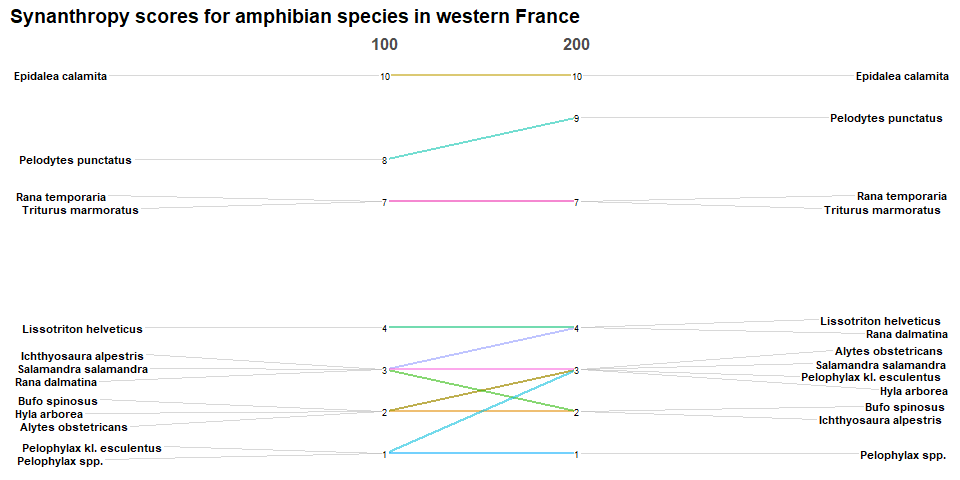
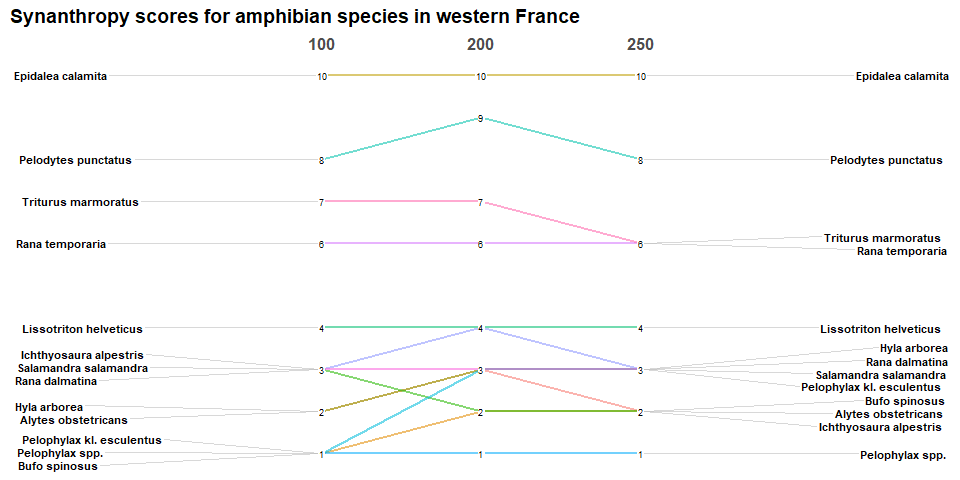
with 500 run

diff --git a/README.md b/README.md
@@ -67,6 +67,10 @@ Packages <- c(Packages_fund,Packages_rel)
 lapply(Packages, library, character.only = TRUE) # to load
 ```
 
+## The Species Synanthropy Index function
+
+### An example with amphibian populations in western France
+
 ### Data
 
 Two types of data are required to run the Species Synanthropy Index
@@ -114,10 +118,6 @@ ggplot() +
 
 ![](README_files/figure-gfm/unnamed-chunk-5-1.png)<!-- -->
 
-## The Species Synanthropy Index function
-
-### An example with amphibian populations in western France
-
 ### Usage
 
 The function was designed to calculate synanthropy scores automatically
@@ -125,6 +125,12 @@ from a data set (for a taxon, a territory and a period). Several
 resolutions can be evaluated simultaneously.
 
 ### Arguments
+
+- `- r`: the raster to be analysed.
+
+- `- x`: the species occurrences dataset ; Data must be structured as
+  network format (one information by row : species, date, spatial
+  coordinates), see above.
 
 - `- resolution`: this argument allows to test several resolutions. To
   do this, specify for each resolution you want to test (the value is
@@ -141,7 +147,7 @@ resolutions can be evaluated simultaneously.
 ### Example and results
 
 ``` r
-ssi_results <- ssi(r = ras_raw, x = sp_by_occ_raw, resolution = c(100, 200), sim = 50, threshold = 30)
+ssi_results <- ssi(r = ras_raw, x = sp_by_occ_raw, resolution = c(100, 200, 250), sim = 500, threshold = 30)
 
 head(ssi_results)
 ```
@@ -158,12 +164,12 @@ head(ssi_results[[1]])
 ```
 
     ##                  Species        mean nRun Index Resolution
-    ## 1    Alytes obstetricans  0.01746624   50     2        100
-    ## 2          Bufo spinosus  0.05210600   50     2        100
-    ## 3      Epidalea calamita -0.48877355   50    10        100
-    ## 4           Hyla arborea  0.01479628   50     2        100
-    ## 5 Ichthyosaura alpestris -0.04402496   50     3        100
-    ## 6 Lissotriton helveticus -0.09571499   50     4        100
+    ## 1    Alytes obstetricans  0.01505309  500     2        100
+    ## 2          Bufo spinosus  0.05567386  500     1        100
+    ## 3      Epidalea calamita -0.50631616  500    10        100
+    ## 4           Hyla arborea  0.02091115  500     2        100
+    ## 5 Ichthyosaura alpestris -0.03143930  500     3        100
+    ## 6 Lissotriton helveticus -0.09821513  500     4        100
 
 - `[[2]]` the second data.frame compile all the raw results, i.e all the
   effect size assessed per run, with corresponding information provided
@@ -176,12 +182,12 @@ head(ssi_results[[2]])
 ```
 
     ##                  Species   .y. group1 group2     effsize   n1   n2  magnitude
-    ## 1    Alytes obstetricans value   Null    Obs  0.04686383  220  220 negligible
-    ## 2          Bufo spinosus value   Null    Obs  0.04723232 2012 2011 negligible
-    ## 3      Epidalea calamita value   Null    Obs -0.58410587   95   95   moderate
-    ## 4           Hyla arborea value   Null    Obs  0.03807707  689  689 negligible
-    ## 5 Ichthyosaura alpestris value   Null    Obs -0.05192229  237  237 negligible
-    ## 6 Lissotriton helveticus value   Null    Obs -0.10389539 1197 1197 negligible
+    ## 1    Alytes obstetricans value   Null    Obs  0.06662700  220  220 negligible
+    ## 2          Bufo spinosus value   Null    Obs  0.06571214 2012 2011 negligible
+    ## 3      Epidalea calamita value   Null    Obs -0.47073556   95   95      small
+    ## 4           Hyla arborea value   Null    Obs  0.02799396  689  689 negligible
+    ## 5 Ichthyosaura alpestris value   Null    Obs  0.08570237  237  237 negligible
+    ## 6 Lissotriton helveticus value   Null    Obs -0.05569967 1197 1197 negligible
     ##   Run Resolution
     ## 1   1        100
     ## 2   1        100
@@ -198,12 +204,12 @@ head(ssi_results[[3]])
 ```
 
     ##    Cell             Species        x       y variable Resolution
-    ## 1  1270 Triturus marmoratus 222047.6 6868984     Null        100
-    ## 2 10959 Triturus marmoratus 272047.6 6740984     Null        100
-    ## 3  6435 Triturus marmoratus 284047.6 6800984     Null        100
-    ## 4  2914 Triturus marmoratus 188047.6 6846984     Null        100
-    ## 5  3652 Triturus marmoratus 154047.6 6836984     Null        100
-    ## 6  5380 Triturus marmoratus 288047.6 6814984     Null        100
+    ## 1  6458 Triturus marmoratus 330047.6 6800984     Null        100
+    ## 2  4970 Triturus marmoratus 374047.6 6820984     Null        100
+    ## 3  8363 Triturus marmoratus 214047.6 6774984     Null        100
+    ## 4 11875 Triturus marmoratus 292047.6 6728984     Null        100
+    ## 5 12328 Triturus marmoratus 292047.6 6722984     Null        100
+    ## 6  4943 Triturus marmoratus 320047.6 6820984     Null        100
 
 ## Visualise and analyse the SSI results
 
@@ -266,8 +272,7 @@ newggslopegraph(dataframe = mean_index_by_reso,
 ### Distribution map
 
 Plotting these maps allows to visualise the locations of observations
-and of randomly selected sites. Orange plots represent observation sites
-and purple ones the sites randomly selected.
+and of randomly selected sites.
 
 ``` r
 sub_distri <- subset(ssi_results[[3]], Resolution == "200")
@@ -287,6 +292,9 @@ ggplot() +
 ```
 
 ![](README_files/figure-gfm/unnamed-chunk-13-1.png)<!-- -->
+
+Purple plots represent observation sites and orange ones the sites
+randomly selected.
 
 ## Application : an example with amphibian communities survey in ponds
 
@@ -352,7 +360,7 @@ head(ex_com_df)
     ##       Site Years      X       Y Richness  SCS SCSw  SCI SCIw
     ## 1   Site 1  2010 335076 6788565        3 3.33 3.20 5.77 5.54
     ## 2  Site 10  2010 340610 6790480        5 3.40 3.40 7.60 7.60
-    ## 3 Site 100  2010 351549 6778613        5 3.60 3.78 8.05 8.45
+    ## 3 Site 100  2010 351549 6778613        5 3.40 3.67 7.60 8.21
     ## 4 Site 101  2010 351550 6778573        3 3.33 3.33 5.77 5.77
     ## 5 Site 102  2010 351577 6780908        3 2.67 3.54 4.62 6.13
     ## 6 Site 103  2010 351641 6778430        4 2.25 2.84 4.50 5.68
